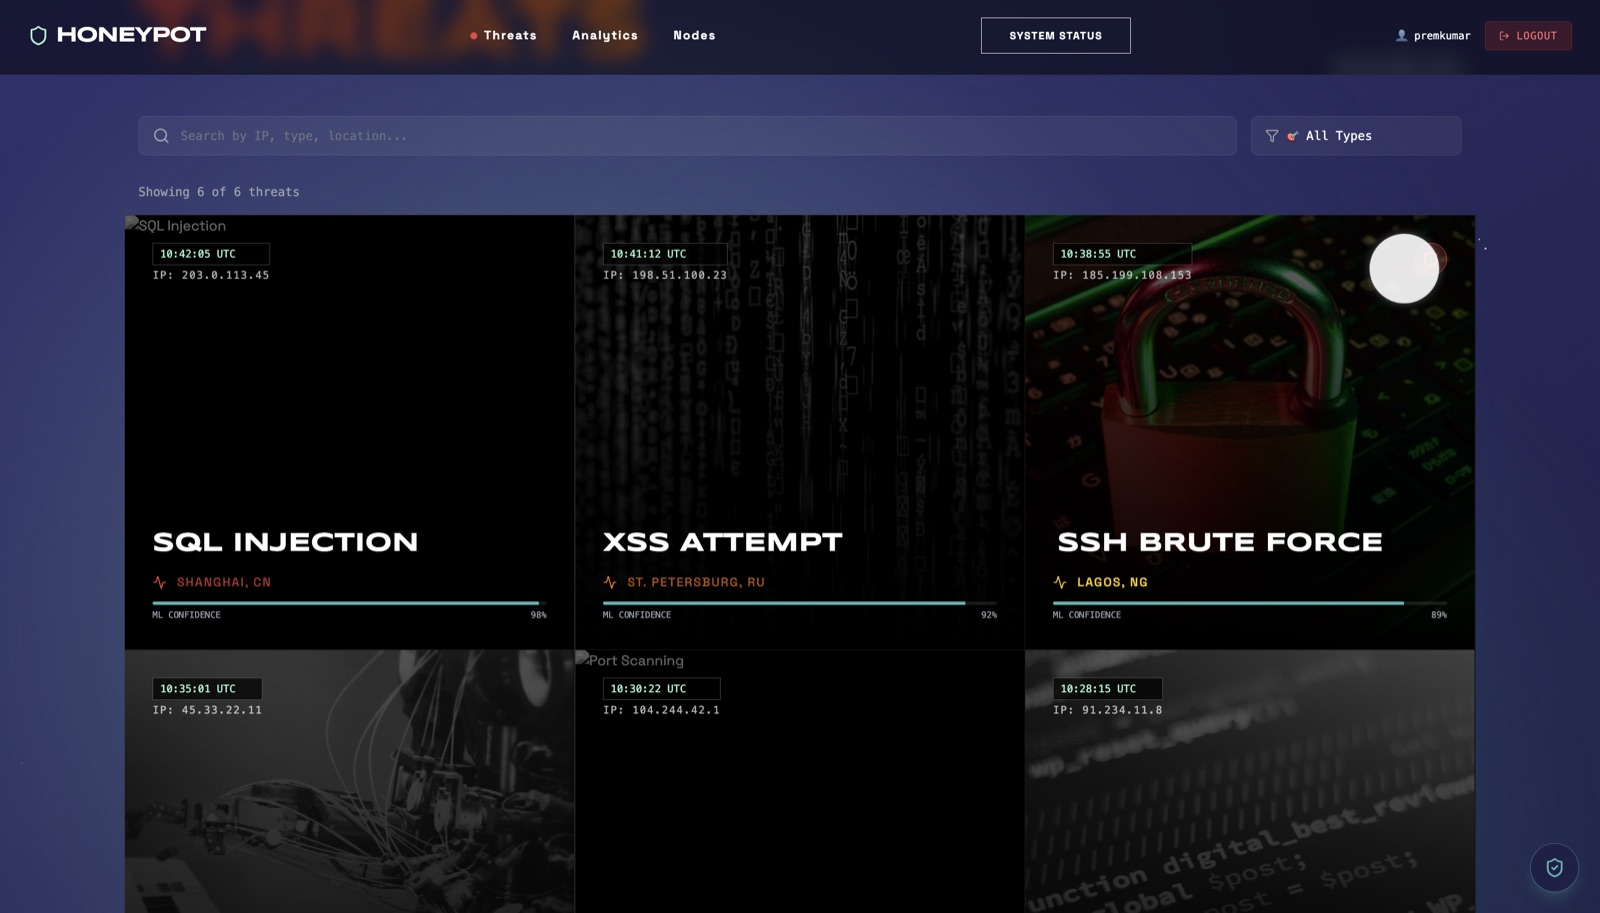
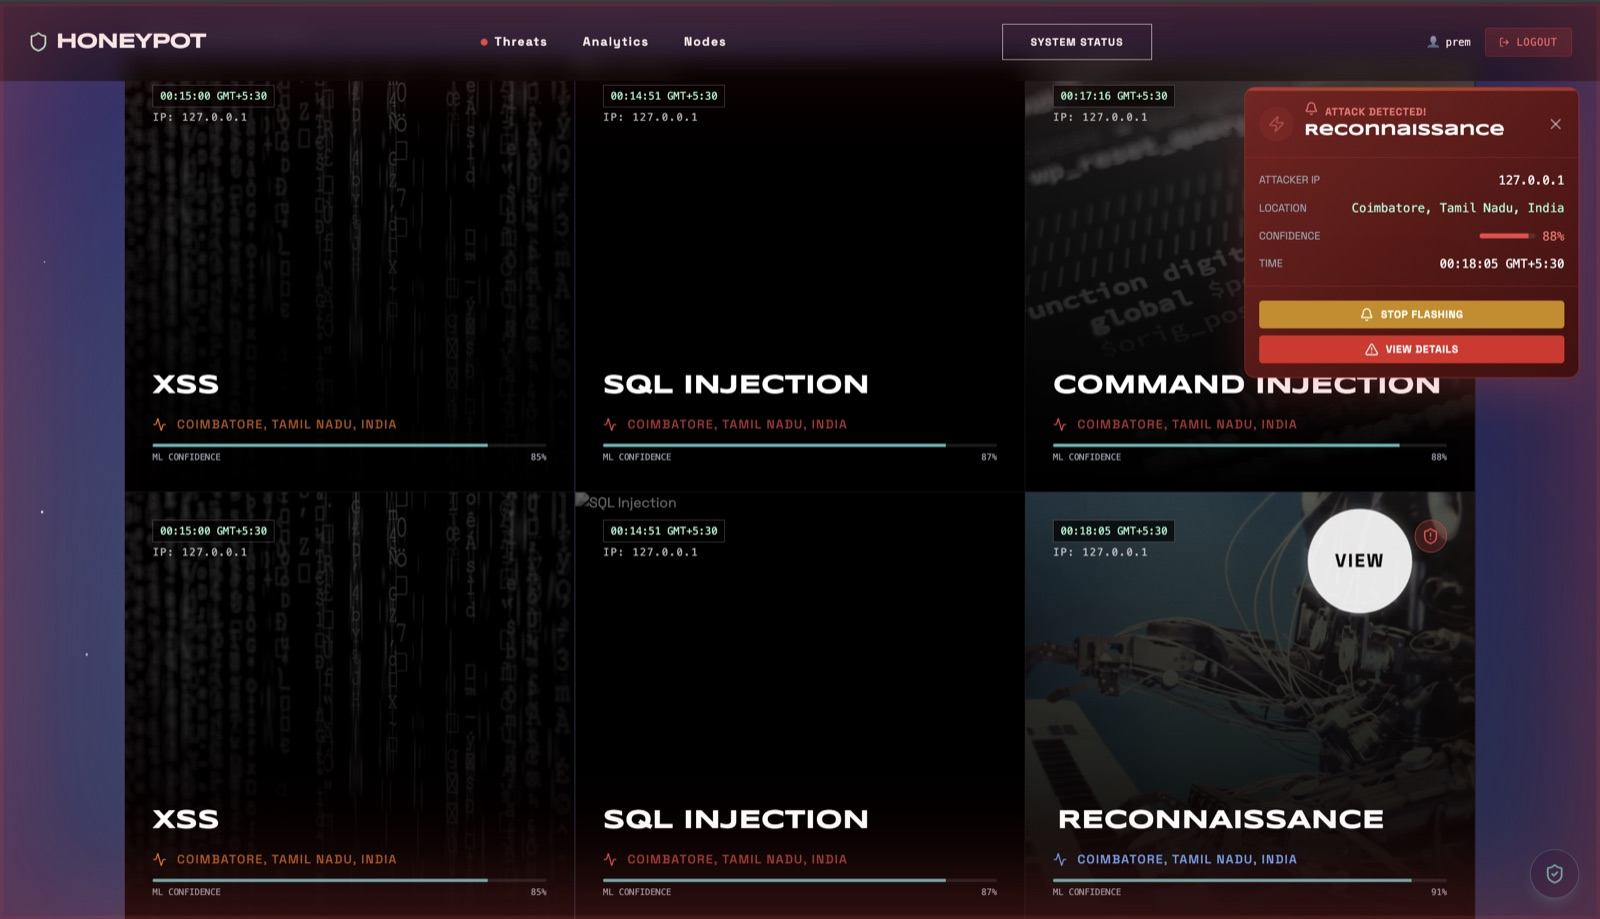
Replace empty-state screenshots with populated ones; add QR demo
The analytics and map shots were captured before any attacks had been
logged, so they showed zero intrusions and blank charts -- the two most
substantial features looked broken. Recaptured against 23 real
detections across five attack classes.

The threat feed shot now shows live classifications rather than the mock
fallback data, and adds the QR generator used to drive the demo from a
phone. Hero and node shots unchanged.

diff --git a/README.md b/README.md
@@ -50,17 +50,20 @@ Attackers think they found something. What they actually found is a sensor.
 ## Screenshots
 
 **Live threat feed** — every card is a real request that hit a trap endpoint,
-with the classified attack type, source IP, geolocation and model confidence.
+labelled with the classified attack type, source IP, location and model
+confidence. The panel top-right is the SSE alert, pushed the instant a trap
+fires.
 
 ![Threat feed](docs/screenshots/02-threat-feed.jpg)
 
-**Analytics** — attack volume over 24 hours, distribution by vector and by
-country, severity breakdown, and a top-attacker leaderboard. Exports to PDF.
+**Analytics** — attack volume over 24 hours, distribution by vector, top
+attacking countries, a per-IP leaderboard and the severity split. Exports to
+PDF. Here across 23 captured attacks spanning five classes.
 
 ![Analytics dashboard](docs/screenshots/03-analytics.jpg)
 
 **Attack origins** — each detection geolocated from its source IP and plotted
-by severity.
+by severity: green low through red critical.
 
 ![Attack origin map](docs/screenshots/04-attack-map.jpg)
 
@@ -68,6 +71,12 @@ by severity.
 `UNDER ATTACK` the moment a trap fires.
 
 ![Node status](docs/screenshots/05-nodes.jpg)
+
+**Attack simulator** — generates a QR code pointing a phone at the deployed
+honeypot, so the whole pipeline can be demonstrated live from any device with
+no tooling installed on it.
+
+![QR code attack demo](docs/screenshots/06-qr-demo.jpg)
 
 ---
 
